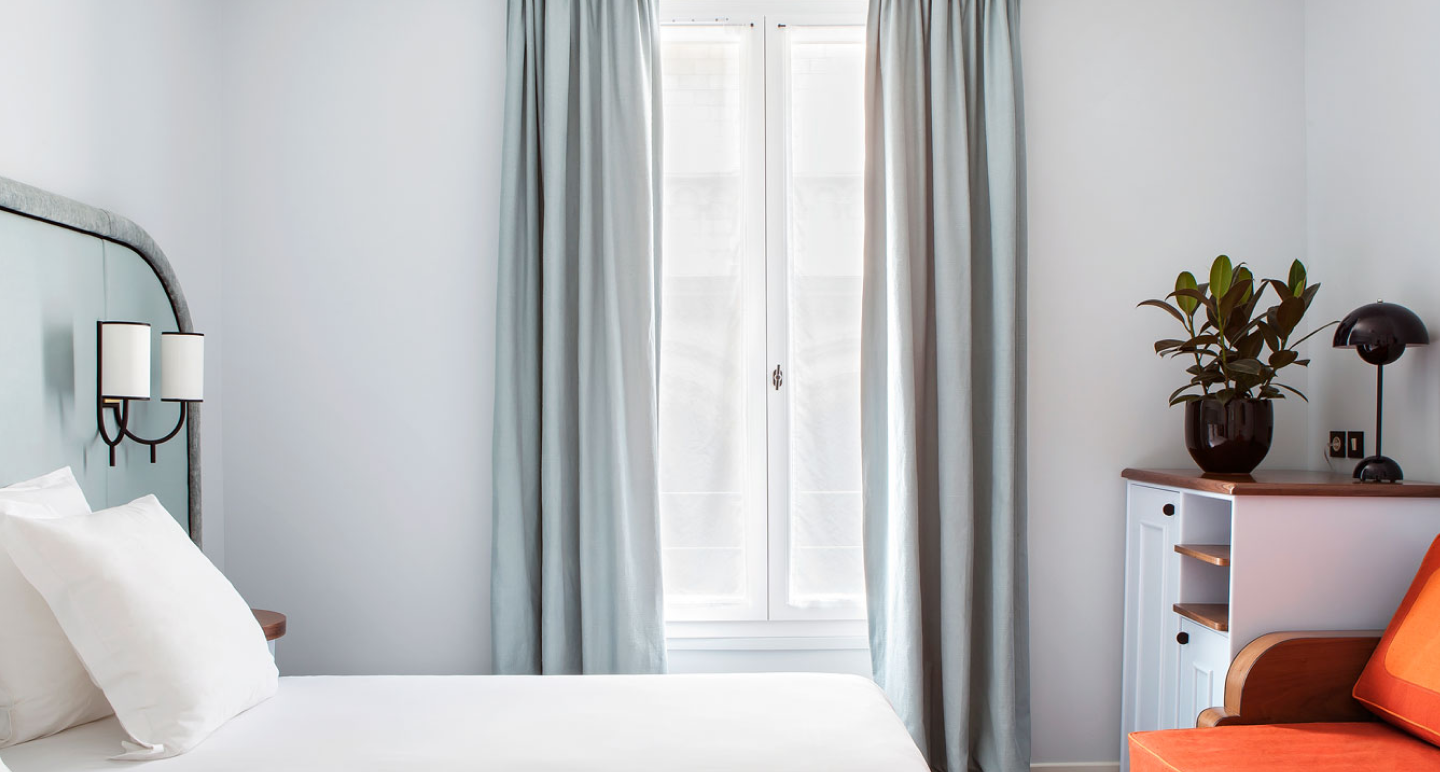
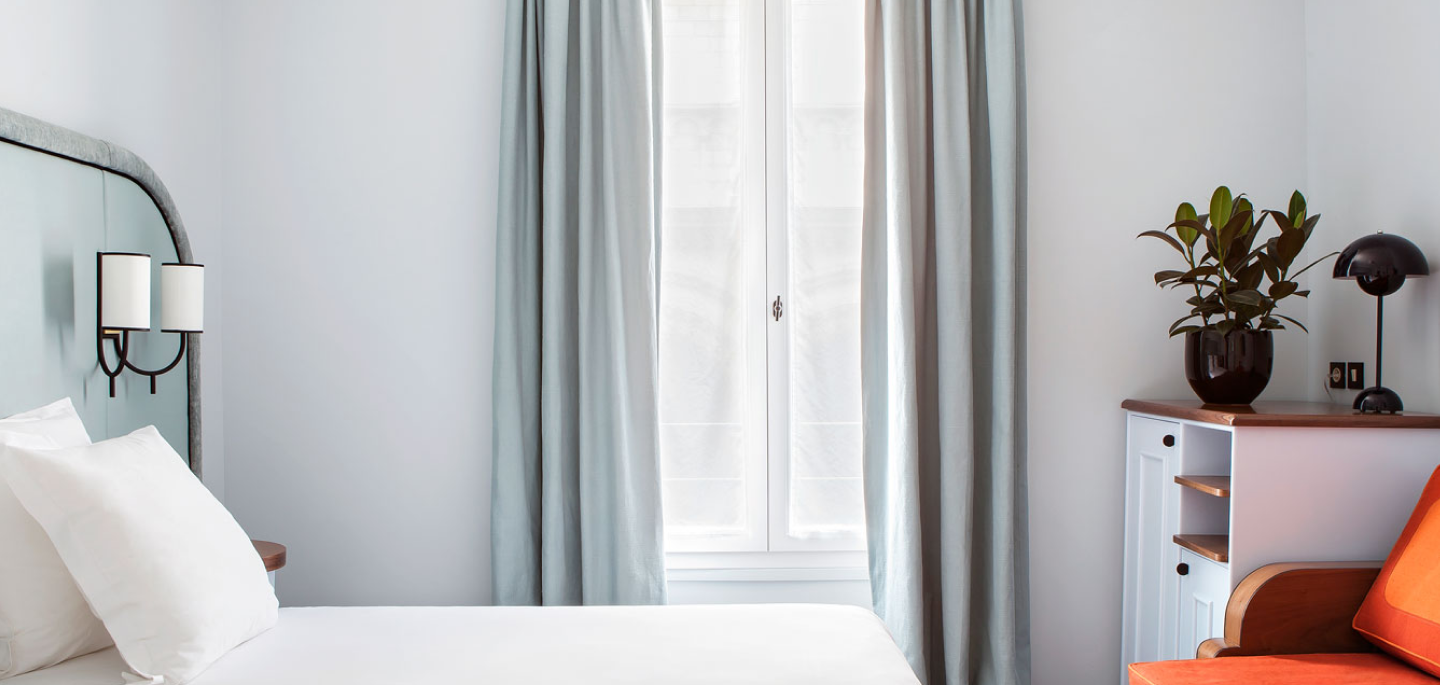
login page was adjusted

diff --git a/src/pages/login-page.less b/src/pages/login-page.less
@@ -15,7 +15,7 @@
     &__background {
         position: relative;
         min-height: 685px; // 700px;
-        background-image: url(../img/login-bg.png);
+        background-image: url(../img/login-bg.jpg);
         background-size: cover;
         background-position: center;
         border-top: solid 1px transparent;
